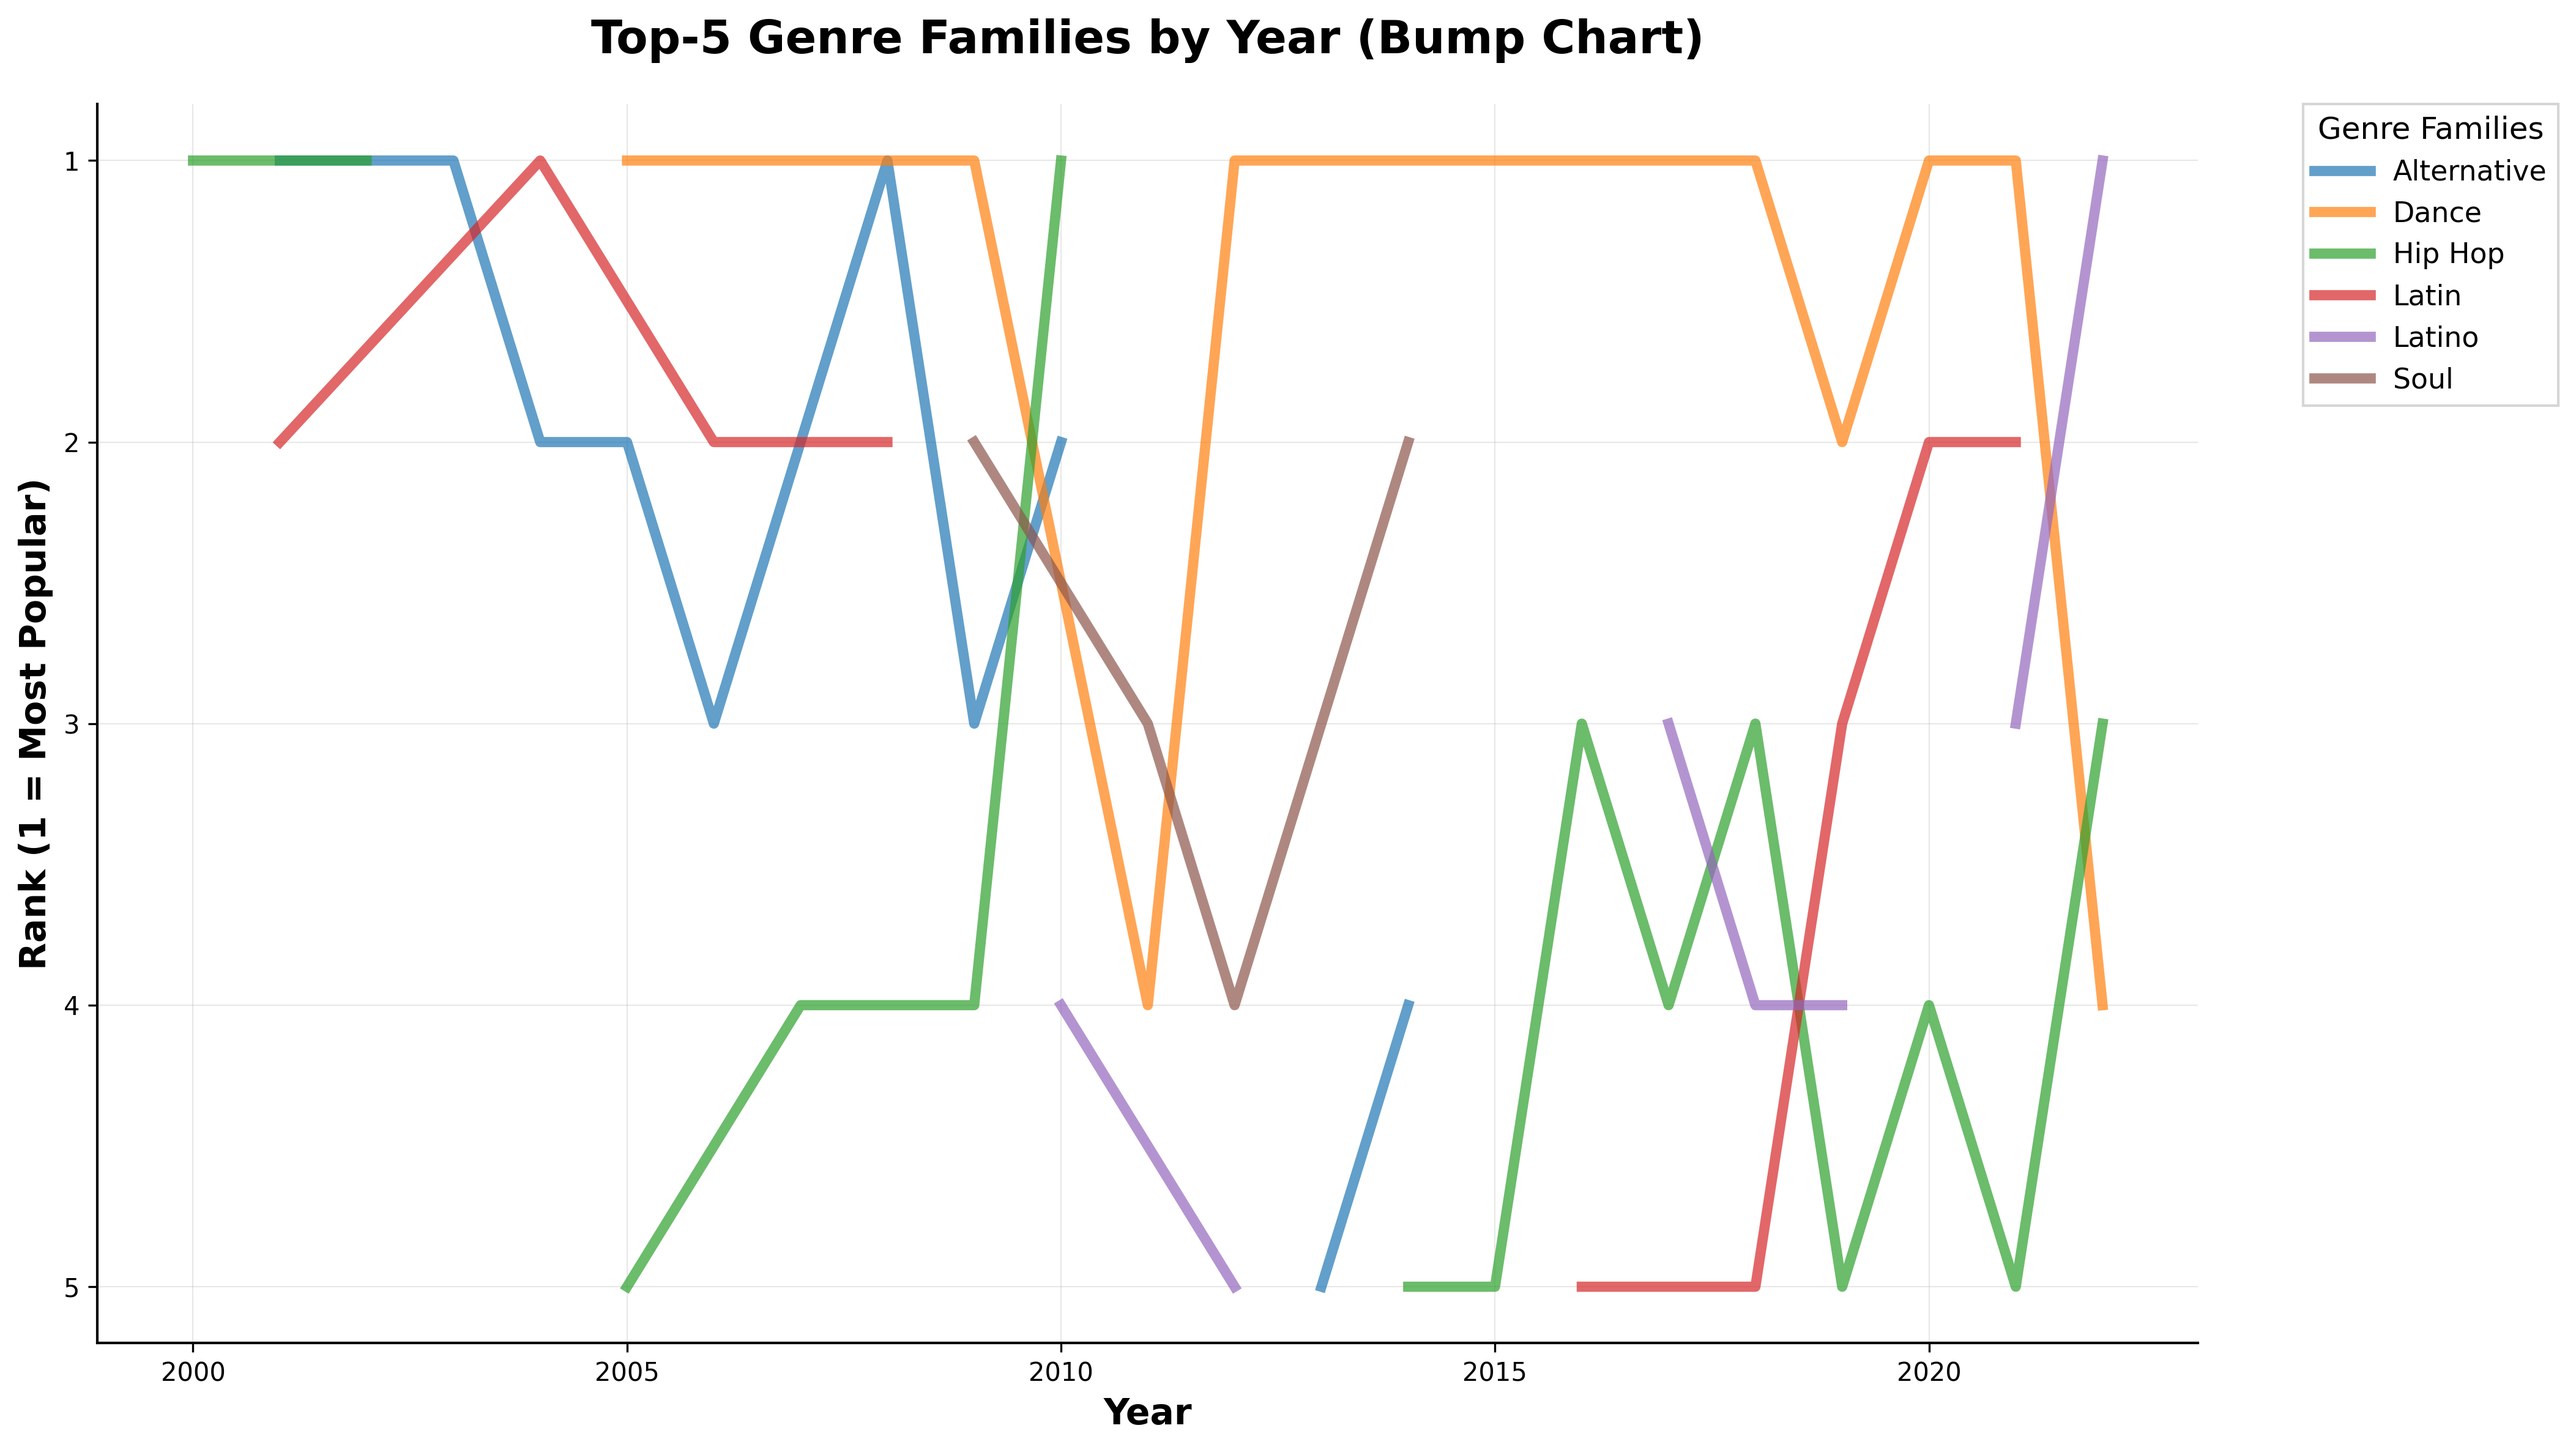
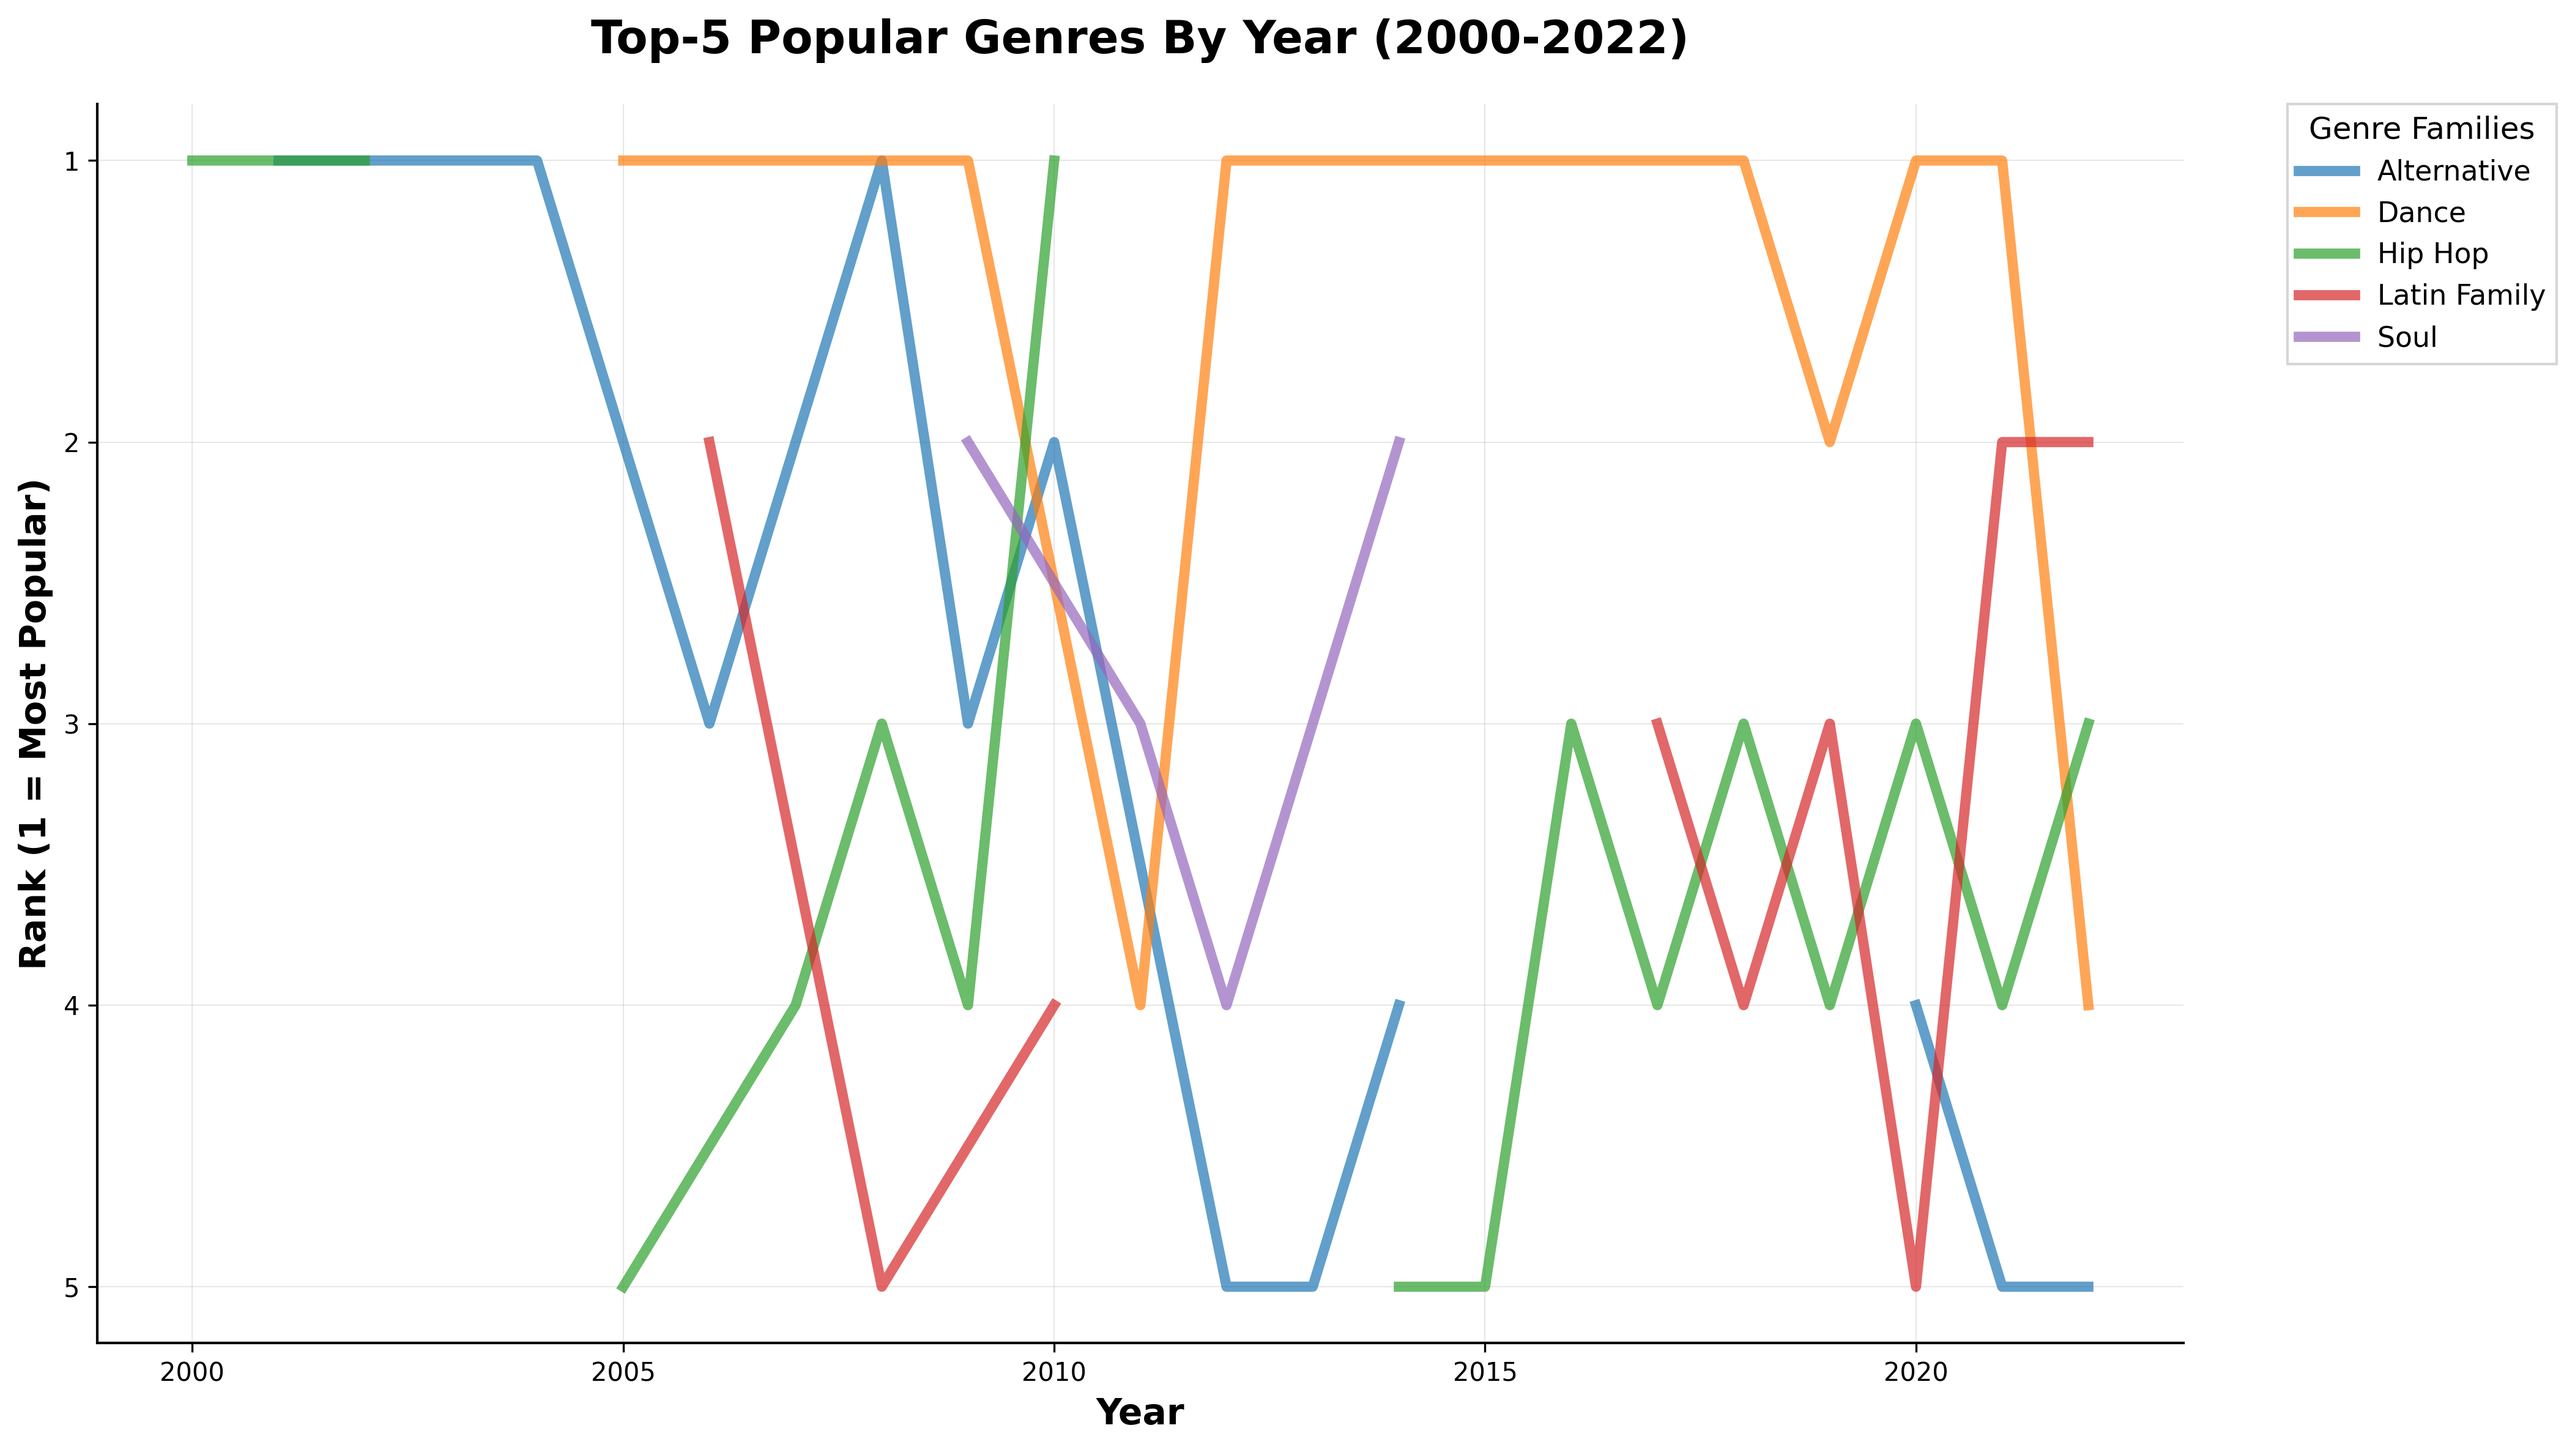
Group latin and latino genres together

diff --git a/Final_Project/data_visualisation.py b/Final_Project/data_visualisation.py
@@ -47,6 +47,7 @@ df['year'] = df['year'].astype(int)
 import matplotlib.pyplot as plt
 import seaborn as sns
 import numpy as np
+import pandas as pd
 from scipy import stats
 
 # Parameters
@@ -59,6 +60,7 @@ def group_genres(genre):
     rock_related = ['alt-rock', 'hard-rock', 'j-rock', 'psych-rock', 'punk-rock', 'rock-n-roll', 'rock', 'rockabilly']
     house_related = ['chicago-house', 'deep-house', 'house', 'progressive-house']
     metal_related = ['black-metal', 'death-metal', 'heavy-metal', 'metal', 'metalcore']
+    latin_related = ['latin', 'latino']  # Group latin and latino together
     
     if genre in pop_related:
         return 'pop-family'
@@ -68,6 +70,8 @@ def group_genres(genre):
         return 'house-family'
     elif genre in metal_related:
         return 'metal-family'
+    elif genre in latin_related:
+        return 'latin-family'
     else:
         return genre
 
@@ -126,7 +130,7 @@ for family in families_to_keep:
              linestyle='-', marker=None)
 
 # Styling
-plt.title(f"Top-{TOP_N} Genre Families by Year (Bump Chart)", fontsize=18, fontweight='bold', pad=20)
+plt.title(f"Top-{TOP_N} Popular Genres By Year (2000-2022)", fontsize=18, fontweight='bold', pad=20)
 plt.xlabel("Year", fontsize=14, fontweight='600')
 plt.ylabel("Rank (1 = Most Popular)", fontsize=14, fontweight='600')
 
@@ -160,6 +164,63 @@ plt.subplots_adjust(right=0.75)
 plt.tight_layout()
 plt.savefig(f"{FIG_DIR}/topN_genre_bump_chart.png", dpi=300, bbox_inches='tight')
 plt.close()
+
+# ========== ALTERNATIVE VERSION: Popularity Scores Instead of Rankings ==========
+# Uncomment the code below and comment out the above version to show actual popularity scores
+#
+# # Aggregate yearly popularity per family
+# year_genre = df.groupby(['year', 'grouped_genre'])['popularity'].mean().reset_index()
+#
+# # Compute rank for each year (1 = most popular) - keep for filtering but plot popularity
+# year_genre['rank'] = year_genre.groupby('year')['popularity'].rank(ascending=False, method='first')
+#
+# # Keep only top-N ranks, but preserve popularity scores
+# top_n_data = year_genre[year_genre['rank'] <= TOP_N].copy()
+#
+# # Filter families that appear in top-N for at least MIN_YEARS_IN_TOPN years
+# valid_families = top_n_data.groupby('grouped_genre')['year'].nunique()
+# families_to_keep = valid_families[valid_families >= MIN_YEARS_IN_TOPN].index.tolist()
+# year_genre = top_n_data[top_n_data['grouped_genre'].isin(families_to_keep)]
+#
+# # For families not in top-N in certain years, set popularity to NaN (breaks lines)
+# all_years = sorted(year_genre['year'].unique())
+# for family in families_to_keep:
+#     family_mask = year_genre['grouped_genre'] == family
+#     for year in all_years:
+#         year_family_mask = family_mask & (year_genre['year'] == year)
+#         if not year_family_mask.any():
+#             # Add NaN entry for missing year to break the line
+#             new_row = pd.DataFrame({
+#                 'year': [year], 
+#                 'grouped_genre': [family], 
+#                 'popularity': [np.nan],
+#                 'rank': [np.nan]
+#             })
+#             year_genre = pd.concat([year_genre, new_row], ignore_index=True)
+#
+# # Create popularity-based chart
+# plt.figure(figsize=(14, 8))
+# ax = plt.gca()
+#
+# # Plot lines for each family using popularity scores
+# for family in families_to_keep:
+#     family_data = year_genre[year_genre['grouped_genre'] == family].sort_values('year')
+#     
+#     # Plot the line using popularity scores instead of ranks
+#     plt.plot(family_data['year'], family_data['popularity'], 
+#              color=family_colors[family], linewidth=4, 
+#              alpha=0.7, label=family.replace('-', ' ').title(),
+#              linestyle='-', marker=None)
+#
+# # Styling for popularity version
+# plt.title(f"Top-{TOP_N} Popular Genres By Year (2000-2022) - Popularity Scores", fontsize=18, fontweight='bold', pad=20)
+# plt.xlabel("Year", fontsize=14, fontweight='600')
+# plt.ylabel("Average Popularity Score", fontsize=14, fontweight='600')
+#
+# # Set y-axis limits based on data range (no inversion needed)
+# y_min = year_genre['popularity'].min() - 2
+# y_max = year_genre['popularity'].max() + 2
+# plt.ylim(y_min, y_max)
 
 # ===== PLOT 2: Word Cloud – Popular Track Titles =====
 def clean_title(title):
